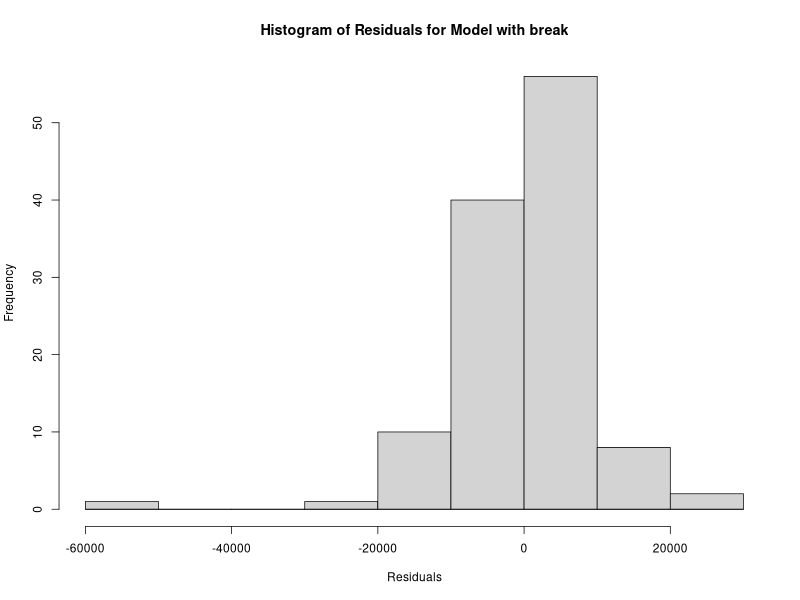
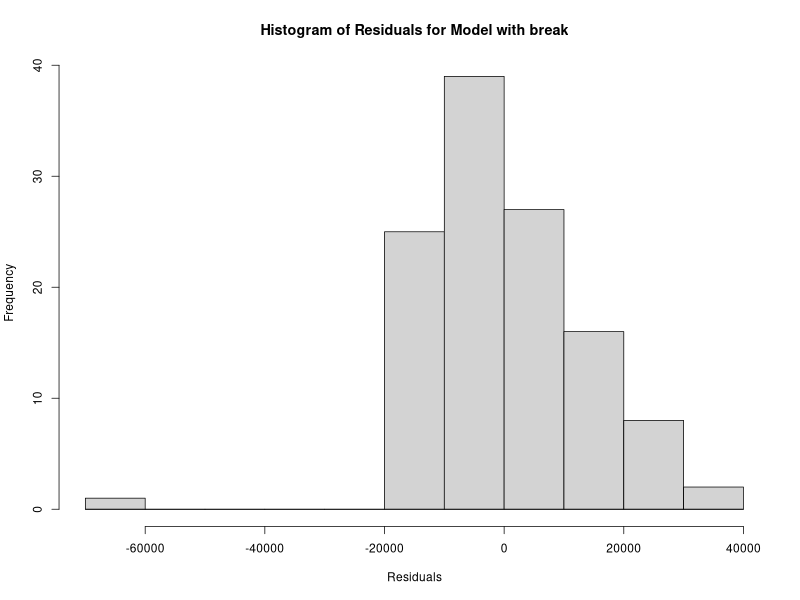
Add QQ and residual plots for model evaluation; update main.py for time series model

diff --git a/new_usrime/main.py b/new_usrime/main.py
@@ -7,6 +7,9 @@ import rpy2.robjects.packages as rpackages
 from rpy2.rinterface_lib.embedded import RRuntimeError
 import numpy as np
 
+def r_j0(vif_j):
+    return {f"Rj0^2_{i}": (1 - 1/vif) for i,vif in zip(vif_j.names,vif_j)}
+
 def install_packages(pckg_names):
     """Install R packages if they are not already installed."""
     
@@ -117,32 +120,64 @@ if __name__ == "__main__":
         )
         dev.off()''')
 
-
-    m_fors = r.r(f''' 
-        library(olsrr)
-
-        model_full <- lm(Crime ~ ., data=ds)
-        m_fors <- ols_step_backward_p(model_full)
-        
-        selected_vars <- m_fors$predictors
-        formula_final <- as.formula(paste("Crime ~ .", paste(selected_vars, collapse=" + ")))
-
-        model_final <- lm(formula_final, data=ds)
-        summary(model_final)
-    ''')
-
-    r.r(f'''
-        png("{PATH}/img/crime_po2.png", width=800, height=600)
-        plot(ds$U2, ds$Crime, main="Crime vs Po2", xlab="Po2", ylab="Crime", pch=19, col="red")
-        dev.off()
-        ''')
-
     m = r.r(
         f'''
-            library(car)
             model_final <- lm(Crime ~ U2 + M + Po2 + LF , data = ds)
+
+            residuals <- resid(model_final)
+            png("{PATH}/img/m_residuals.png", width=800, height=600)
+            hist(residuals, main="Histogram of Residuals for Model with break", xlab="Residuals")
+            curve(dnorm(x),add=T)
+
+            png("{PATH}/img/m_qqplot.png", width=800, height=600)
+            qqnorm(residuals); qqline(residuals)
+            dev.off()
+
+            model_final
         '''
     )
-   
+
+    m_complete = r.r(
+        f'''
+            model_complete <- lm(Crime ~ ., data = ds)
+            
+            residuals <- resid(model_complete)
+            png("{PATH}/img/m_full_residuals.png", width=800, height=600)
+            hist(residuals, main="Histogram of Residuals for Model with break", xlab="Residuals")
+            curve(dnorm(x),add=T)
+
+            png("{PATH}/img/m_full_qqplot.png", width=800, height=600)
+            qqnorm(residuals); qqline(residuals)
+            dev.off()
+
+            model_complete
+        '''
+    )
+
+    det_complete = r.r(''' 
+        X <- model.matrix(model_complete)
+        det(t(X) %*% X)
+    ''')
+
+    det = r.r('''  
+        X <- model.matrix(model_final)
+        det(t(X) %*% X)
+    ''')
+
+
+
+    print("Summary of Complete Linear Model:\n",r.r('summary(model_complete)'))
+    print("VIF Values for Complete Model:\n",r.r('car::vif(model_complete)'))
+    print("Condition Number for Complete Model:\n",r.r('kappa(model.matrix(model_complete))'))
+    print("Determinant of X'X for Complete Model:", det_complete)
+    print("Rj0 values for Complete Model:\n", r_j0(r.r('car::vif(model_complete)')))
+    print("---------------------------------------------------")
+
+    print("Summary of Linear Model:\n",r.r('summary(model_final)'))
+    print("VIF Values:\n",r.r('car::vif(model_final)'))
+    print("Condition Number:\n",r.r('kappa(model.matrix(model_final))'))
+    print("Determinant of X'X:", det)
+    print("Rj0 values:\n", r_j0(r.r('car::vif(model_final)')))
+    print("---------------------------------------------------")
     
     

diff --git a/prodotto_interno_lordo/main.py b/prodotto_interno_lordo/main.py
@@ -116,7 +116,7 @@ ts_pil
         dummy_08 <- ifelse(time_points >= 2008.00, 1, 0)
         dummy_20 <- ifelse(time_points >= 2020.00, 1, 0)
                   
-        model_full <- lm(ts_pil ~ d1+d2+d3+d4+poly(t, 3, raw = TRUE) + dummy_08+ dummy_08:t + dummy_20 -1)
+        model_full <- lm(ts_pil ~ d1+d2+d3+d4+poly(t, 3, raw = TRUE) + dummy_08 + dummy_20 -1)
         
         png("{PATH}/img/time_series_comparison.png", width=1200, height=600)
         fitted_ts <- ts(fitted(model_full), start=start(ts_pil), frequency=frequency(ts_pil))
